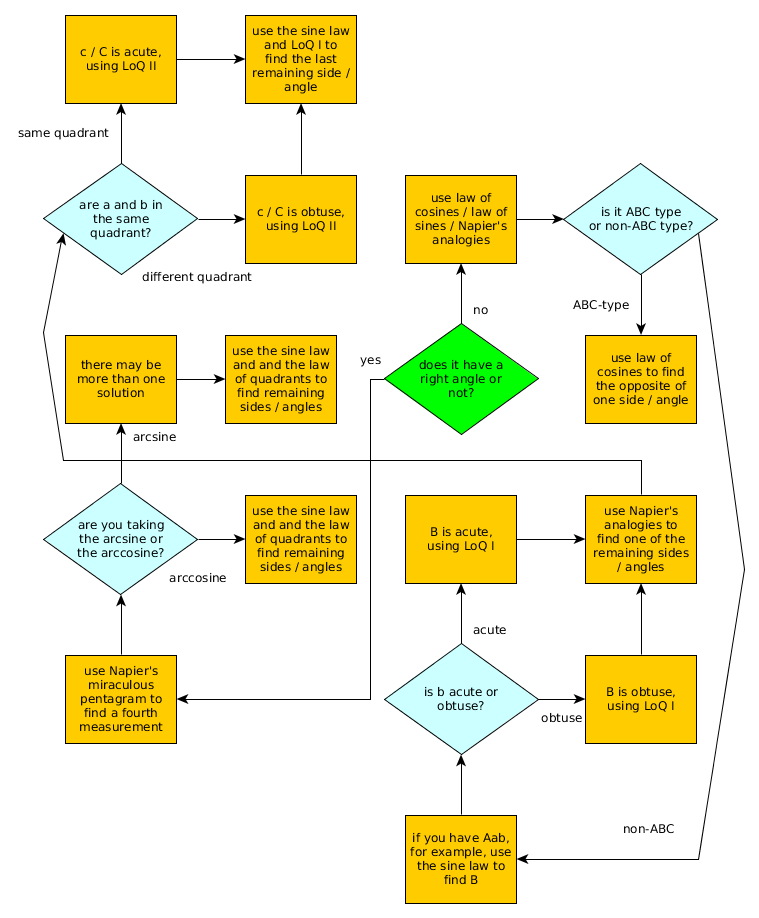
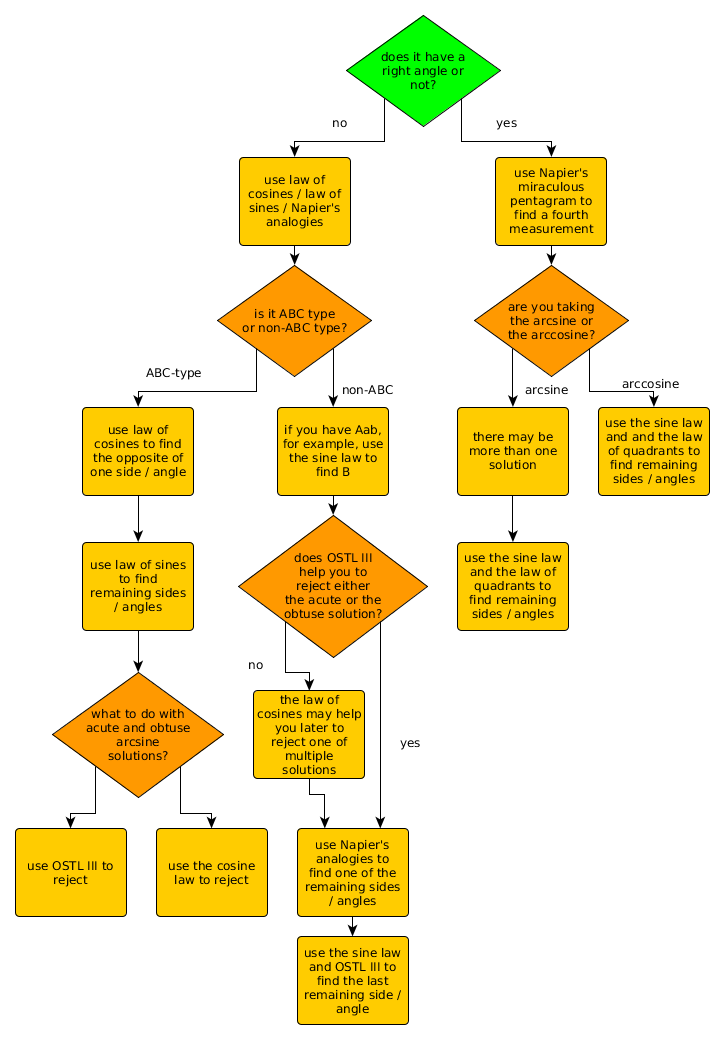
gm-16-SphericalTrigonometry.tex

diff --git a/gm-16-SphericalTrigonometry.tex b/gm-16-SphericalTrigonometry.tex
@@ -466,6 +466,9 @@ coast of Peru is the latitude for Lima.
   called the \alert{polar triangle} of $D$. The polar triangle of $D'$
   is $D$ (in other words, $D''=D$). If $A,B,C$ are the angles of $D$
   and $A',B',C'$ are the angles of $D'$, then
+
+  \bigskip
+
   \begin{tabular}{|rclcrcl|}\hline
     &&&\hspace{.5in}&&& \\
     $a+A'$&=&$180^{\circ}$&&$A+a'$&=&$180^{\circ}$ \\
@@ -479,17 +482,16 @@ coast of Peru is the latitude for Lima.
 
 \begin{frame}
   \frametitle{Oblique Triangles Law of Cosines}
-To solve triangles that do not have a right angle, use the cosine law
-for sides,
+  Here is the cosine law for spherical triangles.
 \begin{equation}
   \label{eq:epheepee}
   \cos{}a=\cos{}b\cos{}c+\sin{}b\sin{}c\cos{}A
 \end{equation}
-and the corresponding cosine law for angles derived from the polar
-triangle,
+The corresponding cosine law for angles derived from the polar
+triangle is
 \begin{equation}
   \label{eq:dijeeghe}
-  \cos{}A=\cos{}B\cos{}C+\sin{}B\sin{}C\cos{}a
+  \cos{}A=-\cos{}B\cos{}C+\sin{}B\sin{}C\cos{}a
 \end{equation}
 \end{frame}
 
@@ -527,26 +529,24 @@ $\sin[\frac{1}{2}(a-b)]$, not $\sin[\frac{1}{2}]\cdot{}(a-b)$.
 \begin{equation}
   \label{eq:uteseivu}
   \begin{array}{l}
-    \tan\frac{1}{2}(A-B)=\cot\frac{C}{2}\frac{\sin\frac{1}{2}(a-b)}{\sin\frac{1}{2}(a+b)} \\
-    \tan\frac{1}{2}(A+B)=\cot\frac{C}{2}\frac{\cos\frac{1}{2}(a-b)}{\cos\frac{1}{2}(a+b)} \\
-    \tan\frac{c}{2}=\tan\left(\frac{1}{2}(a-b)\right)\frac{\sin\frac{1}{2}(A+B)}{\sin\frac{1}{2}(A-B)} \\
-    \tan\frac{c}{2}=\tan\left(\frac{1}{2}(a+b)\right)\frac{\cos\frac{1}{2}(A+B)}{\cos\frac{1}{2}(A-B)}
+    \frac{\tan\frac{c}{2}}{\tan\left(\frac{1}{2}(a-b)\right)}=\frac{\sin\frac{1}{2}(A+B)}{\sin\frac{1}{2}(A-B)} \\
+    \frac{\tan\frac{c}{2}}{\tan\left(\frac{1}{2}(a+b)\right)}=\frac{\cos\frac{1}{2}(A+B)}{\cos\frac{1}{2}(A-B)}
   \end{array}
 \end{equation}
+Napier's Analogies are helpful in roughly the same way the angle-sum
+formula $\alpha+\beta+\gamma=180^{\circ}$ is helpful in plane
+trigonometry.
 \end{frame}
 
 \begin{frame}
   \frametitle{Oblique Triangles Law of Sines}
-Sometimes, the law of sines is needed to calculate a missing side,
+  Here is the sine law for spherical triangles.
 \begin{equation}
   \label{eq:aebaeyun}
   \frac{\sin{}a}{\sin{}A}=\frac{\sin{}b}{\sin{}B}=\frac{\sin{}c}{\sin{}C}
 \end{equation}
-The law of sines, however, is a fickle friend. The calculator will
-often give you the incorrect solution if you use the inverse sine
-function, which is ambiguous. It is usually safer to use Napier's
-Analogies, which also solve the problem that in plane trigonometry is
-solved by the angle-sum formula $\alpha+\beta+\gamma=180^{\circ}$.
+The sine law usually gives you two solutions. Use OSTL III or the
+cosine law to reject one of the two solutions.
 \end{frame}
 
 \begin{frame}
@@ -563,19 +563,18 @@ solved by the angle-sum formula $\alpha+\beta+\gamma=180^{\circ}$.
   \end{description}
 \end{frame}
 
-\begin{frame}
-  \frametitle{Things to Remember}
-  \begin{itemize}
-  \item In all the oblique triangle formulas (law of cosines, law of
-    sines, Napier's Analogies), sides and angles are interchangable.
-    The labels ``a'', ``b'', and ``c'' are arbitrary, so they are also
-    interchangable. You must apply these changes consistently within
-    the formula.
-  \item Using the law of cosines, law of sines, and Napier's Analogies
-    can saddle you with an incorrect solution. Always run all the sine
-    laws and all the cosine laws to check your solution.
-  \end{itemize}
-\end{frame}
+% \begin{frame}
+%   \frametitle{Things to Remember}
+%   \begin{itemize}
+%   \item In all the oblique triangle formulas (law of cosines, law of
+%     sines, Napier's Analogies), the labels ``a'', ``b'', and ``c'' are
+%     arbitrary, so they are also interchangable. You must apply these
+%     changes consistently within the formula.
+%   \item Using the law of cosines, law of sines, and Napier's Analogies
+%     can saddle you with an incorrect solution. Always run all the sine
+%     laws and all the cosine laws to check your solution.
+%   \end{itemize}
+% \end{frame}
 
 \begin{frame}
   \frametitle{Spherical Trigonometry Decision Tree}
